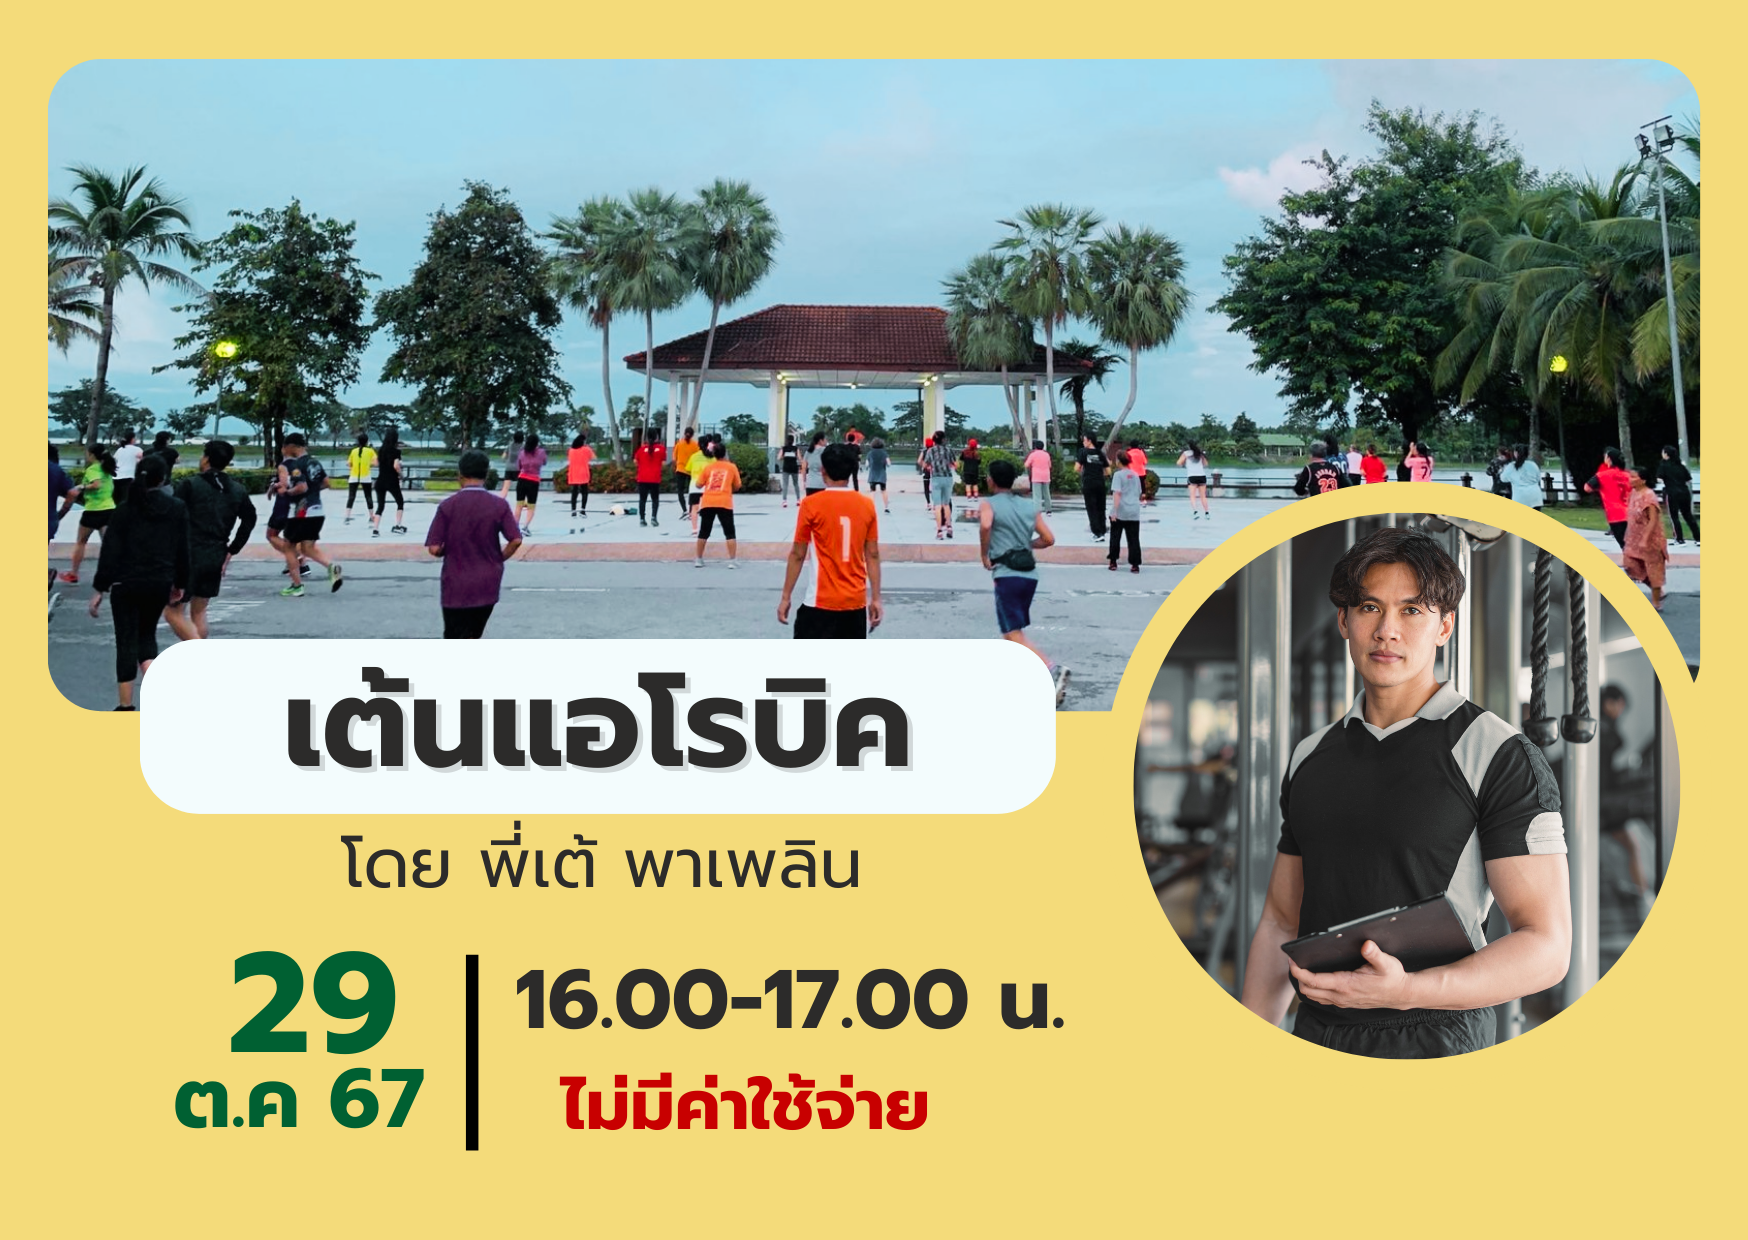
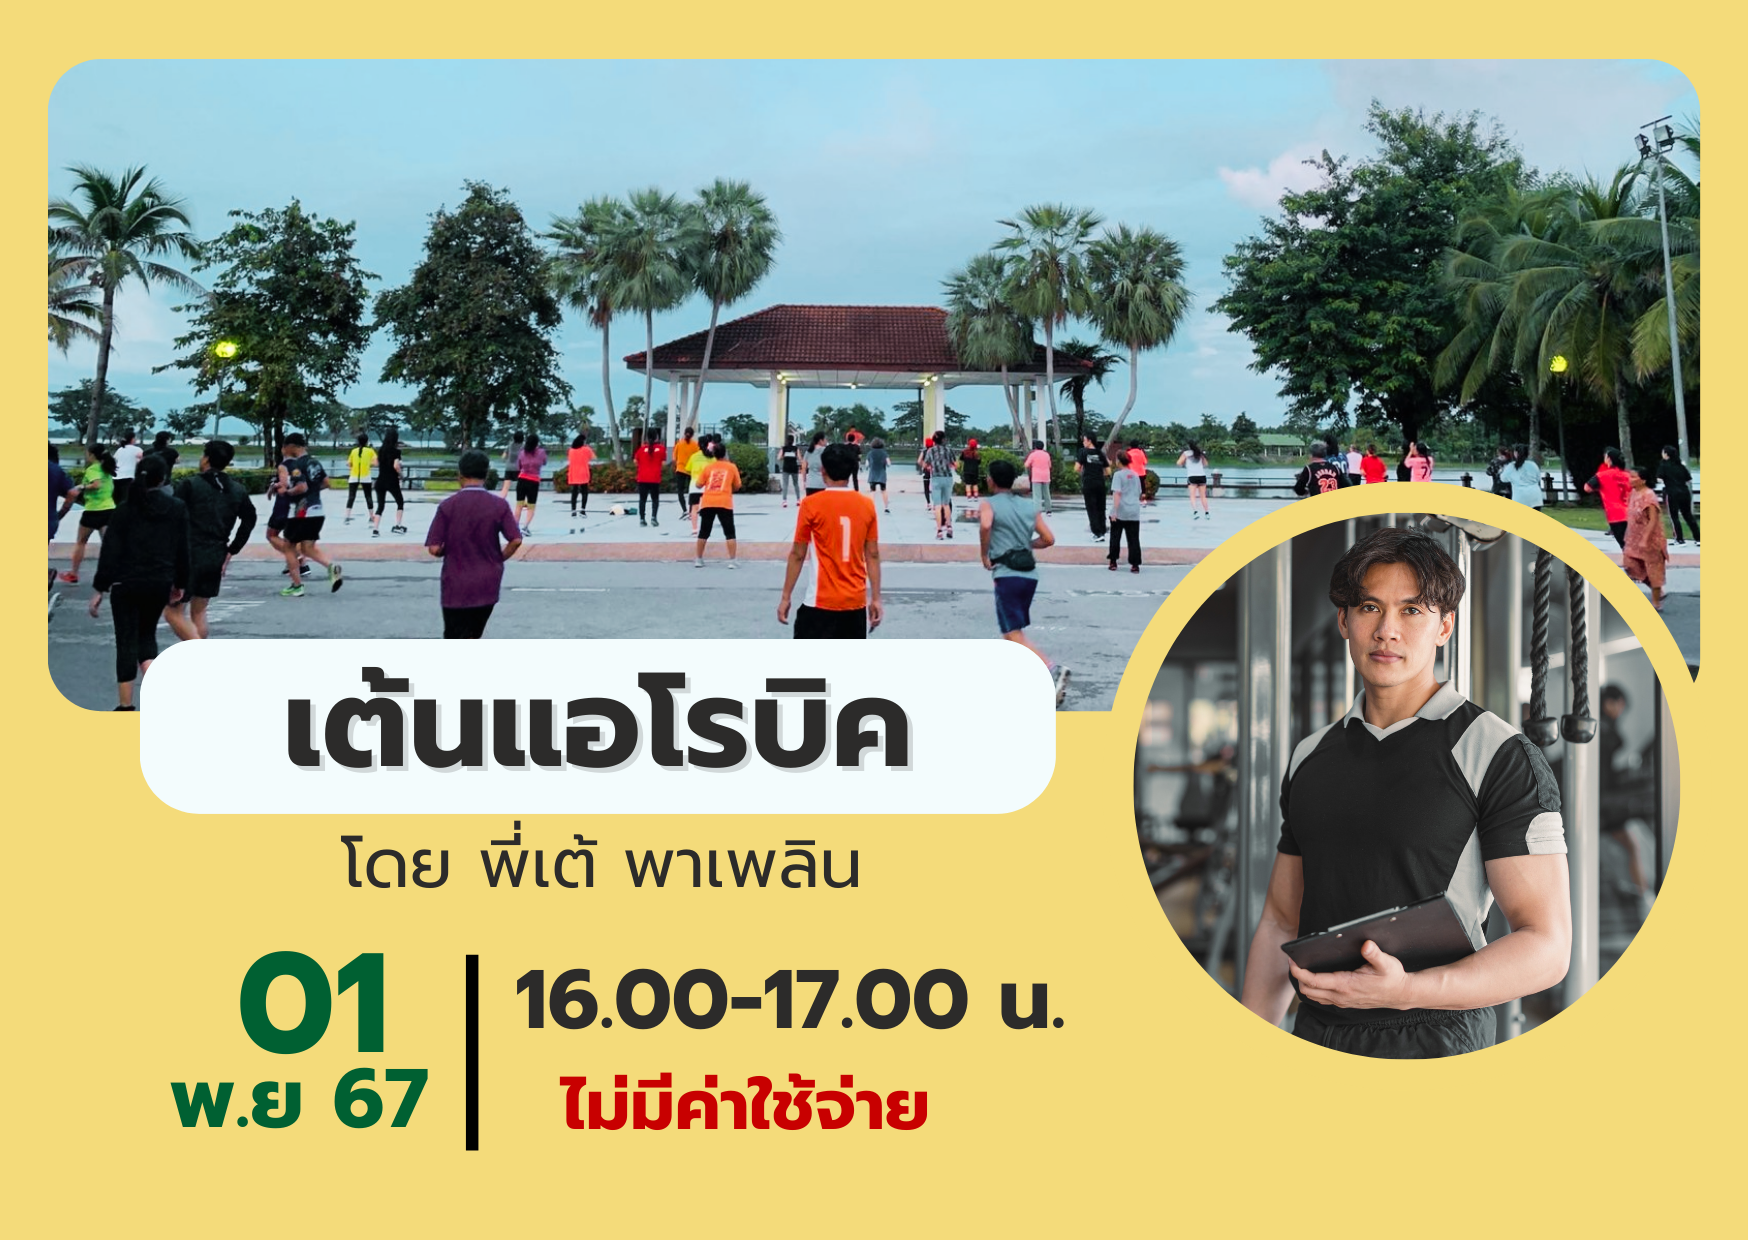
เปลี่ยนรูปทับไฟล์เดิม กับเปลี่ยนวันที่คอร์ส

Changed region(s): [[0.0927, 0.7661, 0.2471, 0.9194]]

diff --git a/php/coures5.php b/php/coures5.php
@@ -83,7 +83,7 @@ if (!isset($_SESSION['user_id'])) {
               <!-- ข้อมูลกิจกรรม -->
               <div class="info-row">
                   <i class="fa fa-calendar"></i>
-                  <span>วันที่: 30 ต.ค. 2567</span>
+                  <span>วันที่: 30 พ.ย. 2567</span>
               </div>
               <div class="info-row">
                   <i class="fa fa-clock"></i>

diff --git a/php/coures1.php b/php/coures1.php
@@ -84,7 +84,7 @@ if (!isset($_SESSION['user_id'])) {
             <!-- ข้อมูลกิจกรรม -->
             <div class="info-row">
                 <i class="fa fa-calendar"></i>
-                <span>วันที่: 29 ต.ค. 2567</span>
+                <span>วันที่: 01 พ.ย. 2567</span>
             </div>
             <div class="info-row">
                 <i class="fa fa-clock"></i>
